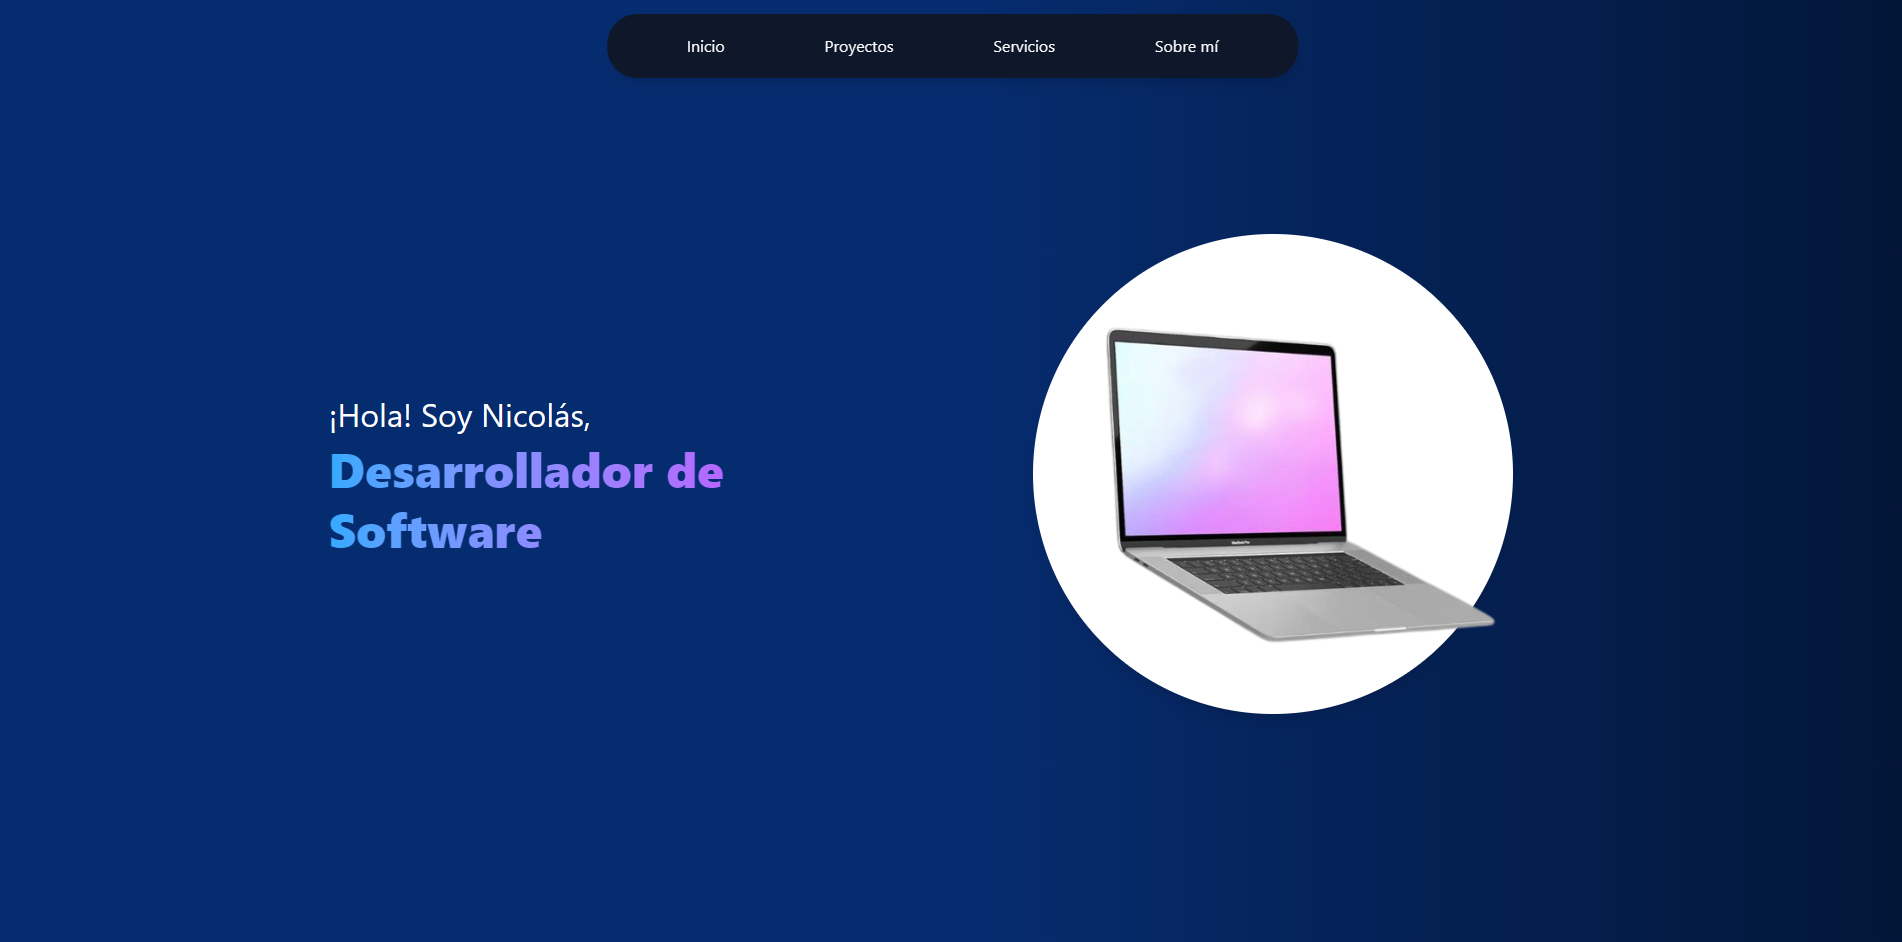
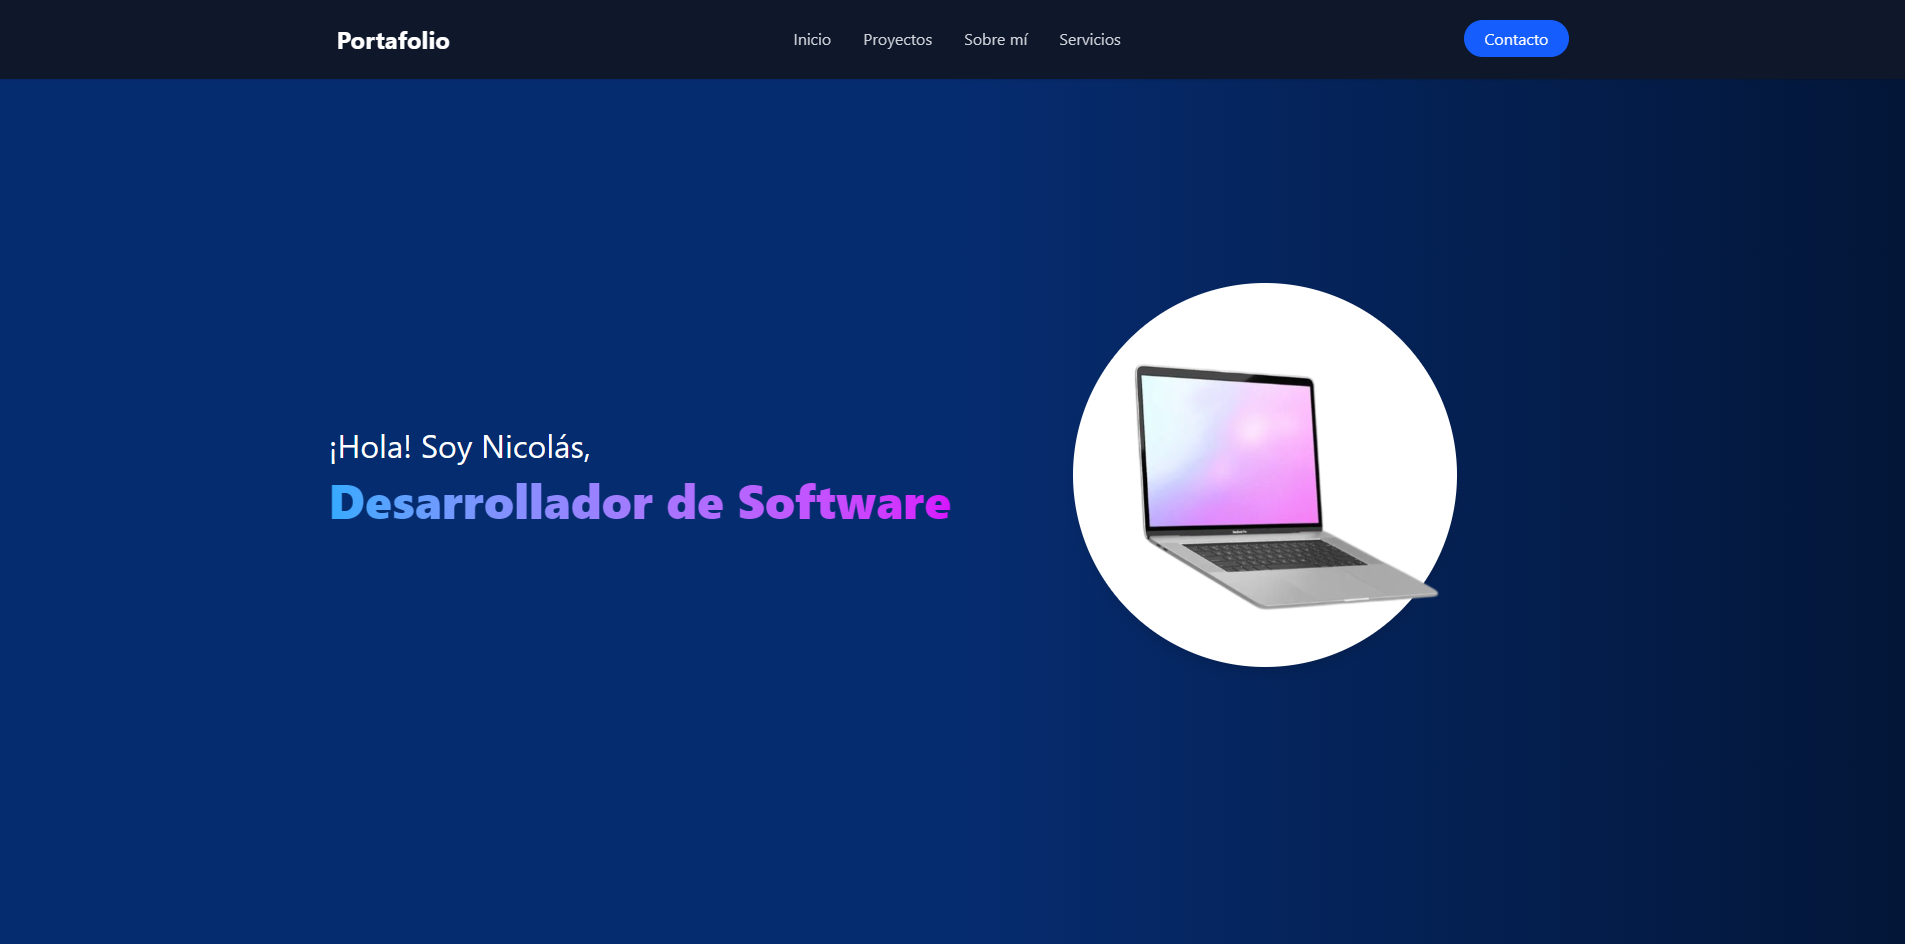
Actualización del header

Changed region(s): [[0.5273, 0.2463, 0.8065, 0.7696], [0.0, 0.0, 0.9306, 0.0924], [0.1551, 0.431, 0.4963, 0.5849]]

diff --git a/src/routes/proyectos/pagina_web_facultad_de_ciencias/+page.svelte b/src/routes/proyectos/pagina_web_facultad_de_ciencias/+page.svelte
@@ -1,0 +1,81 @@
+<!-- Hero / Banner -->
+<section id="hero" class="bg-[#062C70] text-white py-20 text-center">
+  <div class="max-w-4xl mx-auto">
+    <h1 class="text-5xl font-bold mb-4">Página Web Facultad de Ciencias</h1>
+    <p class="text-xl">Reimplementación web institucional tras incidente de seguridad, con enfoque en accesibilidad y despliegue rápido.</p>
+    <img src="/facultad_ciencias.png" alt="Facultad Ciencias" class="mt-8 rounded-lg shadow-lg mx-auto w-full max-w-3xl" />
+  </div>
+</section>
+
+<!-- Descripción -->
+<section id="descripcion" class="py-16 px-6 max-w-4xl mx-auto">
+  <h2 class="text-3xl font-bold mb-6">📖 Descripción General</h2>
+  <p class="mb-4">En junio de 2021, tras un incidente de seguridad que afectó el sitio web oficial de la Facultad de Ciencias de la Universidad Nacional de Colombia, se requería una solución temporal de rápida implementación.</p>
+  <p class="mb-4">El objetivo fue diseñar y desplegar una página web funcional que informara a estudiantes y docentes sobre actividades, noticias y enlaces institucionales en un plazo máximo de 72 horas.</p>
+</section>
+
+<!-- Tecnologías -->
+<section id="tecnologias" class="bg-gray-100 py-16 px-6">
+  <div class="max-w-4xl mx-auto">
+    <h2 class="text-3xl font-bold mb-6">🛠 Tecnologías Utilizadas</h2>
+    <ul class="grid grid-cols-2 gap-4 text-lg">
+      <li>HTML5</li>
+      <li>CSS3</li>
+      <li>Bootstrap 4</li>
+      <li>Apache 2.4</li>
+      <li>Git</li>
+    </ul>
+  </div>
+</section>
+
+<!-- Funcionalidades -->
+<section id="funcionalidades" class="py-16 px-6 max-w-4xl mx-auto">
+  <h2 class="text-3xl font-bold mb-6">⚙ Funcionalidades Implementadas</h2>
+  <ul class="list-disc list-inside space-y-2">
+    <li>Página de inicio con banner y enlaces rápidos.</li>
+    <li>Sección de noticias y comunicados.</li>
+    <li>Menú de navegación responsive.</li>
+    <li>Enlaces a recursos institucionales.</li>
+    <li>Plantilla adaptable a dispositivos móviles.</li>
+    <li>Seguridad básica mediante .htaccess.</li>
+  </ul>
+</section>
+
+<!-- Galería -->
+<section id="galeria" class="bg-gray-100 py-16 px-6">
+  <div class="max-w-4xl mx-auto">
+    <h2 class="text-3xl font-bold mb-6">🖼 Galería</h2>
+    <div class="grid md:grid-cols-2 gap-6">
+      <img src="/facultad_ciencias.png" alt="Vista de inicio" class="rounded-lg shadow" />
+      <img src="/facultad_ciencias.png" alt="Sección de noticias" class="rounded-lg shadow" />
+    </div>
+  </div>
+</section>
+
+<!-- Resultados -->
+<section id="resultados" class="py-16 px-6 max-w-4xl mx-auto">
+  <h2 class="text-3xl font-bold mb-6">📊 Resultados</h2>
+  <p class="mb-4">Tiempo de despliegue: <strong>72 horas</strong>.</p>
+  <p class="mb-4">Accesibilidad básica para estudiantes y administrativos.</p>
+  <p>Reemplazo funcional hasta la recuperación del sitio oficial.</p>
+</section>
+
+<!-- Aprendizajes -->
+<section id="aprendizajes" class="bg-gray-100 py-16 px-6">
+  <div class="max-w-4xl mx-auto">
+    <h2 class="text-3xl font-bold mb-6">📌 Aprendizajes</h2>
+    <ul class="list-disc list-inside space-y-2">
+      <li>Trabajo bajo presión en entornos académicos.</li>
+      <li>Despliegue rápido de aplicaciones web en Apache.</li>
+      <li>Diseño responsive básico y accesible.</li>
+      <li>Coordinación con equipo de soporte institucional.</li>
+    </ul>
+  </div>
+</section>
+
+<!-- Créditos -->
+<section id="creditos" class="py-16 px-6 max-w-4xl mx-auto text-center">
+  <h2 class="text-3xl font-bold mb-6">📝 Créditos</h2>
+  <p class="text-lg">Desarrollador: <strong>Tu Nombre</strong></p>
+  <p class="text-lg mt-2">Rol: Análisis de requerimientos, desarrollo frontend y despliegue.</p>
+</section>

diff --git a/src/lib/components/Navbar.svelte b/src/lib/components/Navbar.svelte
@@ -1,21 +1,61 @@
 <script lang="ts">
-  const scrollToSection = (id: string) => {
-    document.getElementById(id)?.scrollIntoView({ behavior: 'smooth' });
-  };
+  export let sections: { name: string; href: string }[] = [];
+
+  let menuOpen = false;
+  const toggleMenu = () => menuOpen = !menuOpen;
 </script>
 
-<nav class="hidden lg:flex fixed top-4 left-1/2 transform -translate-x-1/2 bg-[#0F172A] shadow-lg rounded-[30px] px-20 py-5 z-50">
-  <div class="flex space-x-10">
-    <a href="#hero" class="text-white hover:text-blue-400">Inicio</a>
-    <a href="#proyectos" class="text-white hover:text-blue-400">Proyectos</a>
-    <a href="#servicios" class="text-white hover:text-blue-400">Servicios</a>
-    <a href="#sobremi" class="text-white hover:text-blue-400">Sobre mí</a>
+<nav class="bg-[#0F172A] py-6 fixed top-0 left-0 w-full z-50 shadow">
+  <div class="w-full max-w-7xl mx-auto px-6 flex justify-between items-center">
+    
+    <!-- Logo -->
+    <a href="/" class="text-white text-2xl font-bold">Portafolio</a>
+
+    <!-- Botón hamburguesa (móvil) -->
+    <button
+      class="lg:hidden text-white focus:outline-none"
+      on:click={toggleMenu}
+      aria-label="Abrir menú de navegación">
+      <svg class="w-6 h-6" fill="none" stroke="currentColor" viewBox="0 0 24 24">
+        <path stroke-linecap="round" stroke-linejoin="round" stroke-width="2"
+          d="M4 6h16M4 12h16M4 18h16" />
+      </svg>
+    </button>
+
+    <!-- Navegación normal (desktop) -->
+    <div class="hidden lg:flex flex-1 justify-center space-x-8">
+      {#each sections as section}
+        <a href={section.href} class="text-gray-300 hover:text-white transition">{section.name}</a>
+      {/each}
+    </div>
+
+    <!-- Botón de contacto -->
+    <div class="hidden lg:block">
+      <a href="/contacto" class="bg-blue-600 hover:bg-blue-700 text-white px-5 py-2 rounded-full transition">
+        Contacto
+      </a>
+    </div>
   </div>
 </nav>
 
+<!-- Menú desplegable (móvil) -->
+{#if menuOpen}
+  <div class="lg:hidden bg-[#0F172A] pt-4 pb-6 space-y-4 fixed top-16 left-0 w-full z-40 transition-all duration-300">
+    <div class="px-6">
+      {#each sections as section}
+        <a
+          href={section.href}
+          class="block text-gray-300 hover:text-white text-lg transition"
+          on:click={() => menuOpen = false}>
+          {section.name}
+        </a>
+      {/each}
 
-<style>
-  nav {
-    backdrop-filter: blur(10px);
-  }
-</style>
+      <a
+        href="/contacto"
+        class="block bg-blue-600 hover:bg-blue-700 text-white text-center py-3 rounded-full transition mt-4">
+        Contacto
+      </a>
+    </div>
+  </div>
+{/if}

diff --git a/src/routes/+page.svelte b/src/routes/+page.svelte
@@ -22,8 +22,6 @@
   </div>
 </section>
 
-
-
 <section id="tecnologias" class="flex flex-col items-start bg-white px-4 py-20 max-w-7xl mx-auto border-t border-gray-200">
   <h2 class="text-4xl font-bold mb-8">Tecnologías utilizadas</h2>
   <div class="relative overflow-hidden w-full py-4 group">
@@ -143,13 +141,11 @@
         <span class="bg-green-100 text-green-800 text-xs font-medium px-2.5 py-0.5 rounded">WordPress</span>
         <span class="bg-gray-200 text-gray-800 text-xs font-medium px-2.5 py-0.5 rounded">Apache</span>
       </div>
-      <a href="/proyectos/facultad-ciencias" class="text-blue-600 hover:underline">Ver más →</a>
+      <a href="/proyectos/pagina_web_facultad_de_ciencias" class="text-blue-600 hover:underline">Ver más →</a>
     </div>
 
   </div>
 </section>
-
-
 
 <section id="servicios" class="flex flex-col items-start bg-white px-4 py-20 max-w-7xl mx-auto border-t border-gray-200">
   <h2 class="text-4xl font-bold mb-12 text-center">Servicios</h2>
@@ -222,7 +218,7 @@
       <div>
         <h3 class="text-2xl font-semibold mb-2">💼 Experiencia</h3>
         <ul class="list-disc list-inside text-gray-700">
-          <li>Desarrollador Backend — Infometrika S.A.S (2025)</li>
+          <li>Desarrollador — Infometrika S.A.S (2025)</li>
           <li>Contratista TI — Facultad de Ciencias UNAL (2024)</li>
           <li>Estudiante Auxiliar Web — UNAL (2021-2024)</li>
         </ul>

diff --git a/src/lib/components/Footer.svelte b/src/lib/components/Footer.svelte
@@ -1,0 +1,20 @@
+<script lang="ts">
+  const year = new Date().getFullYear();
+</script>
+
+<footer class="bg-gray-900 text-gray-300 py-15">
+  <div class="max-w-7xl mx-auto px-4 flex flex-col md:flex-row justify-between items-center space-y-4 md:space-y-0">
+    <p class="text-sm">&copy; {year} Sergio Nicolás Haldane Garzón. Todos los derechos reservados.</p>
+    <div class="flex space-x-6">
+      <a href="https://github.com/Niser01" target="_blank" rel="noopener noreferrer" class="flex flex-col items-center">
+        <img src="/github.svg" alt="GitHub" class="h-12">
+        <span class="mt-2 text-xs">GitHub</span>
+      </a>
+      <a href="https://www.linkedin.com/in/sergio-nicolas-haldane-garzon/" target="_blank" rel="noopener noreferrer" class="flex flex-col items-center">
+        <img src="/linkedin.svg" alt="LinkedIn" class="h-12">
+        <span class="mt-2 text-xs">LinkedIn</span>
+      </a>
+    </div>
+  </div>
+</footer>
+ 

diff --git a/src/routes/+layout.svelte b/src/routes/+layout.svelte
@@ -1,10 +1,17 @@
 <script lang="ts">
   import '../app.css';
   import Navbar from '../lib/components/Navbar.svelte';
+  import Footer from '../lib/components/Footer.svelte';
 
-  let { children } = $props();
+  const sections = [
+    { name: 'Inicio', href: '/' },
+    { name: 'Proyectos', href: '/proyectos' },
+    { name: 'Servicios', href: '/servicios' },
+  ];
 </script>
 
-<Navbar />
+<Navbar {sections} />
 
-{@render children()}
+<slot />
+
+<Footer />
